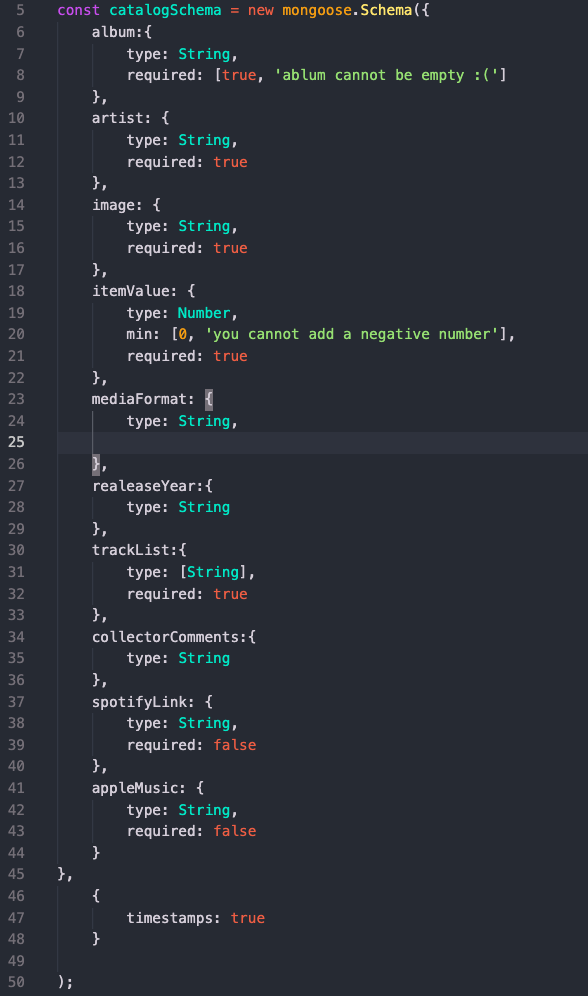
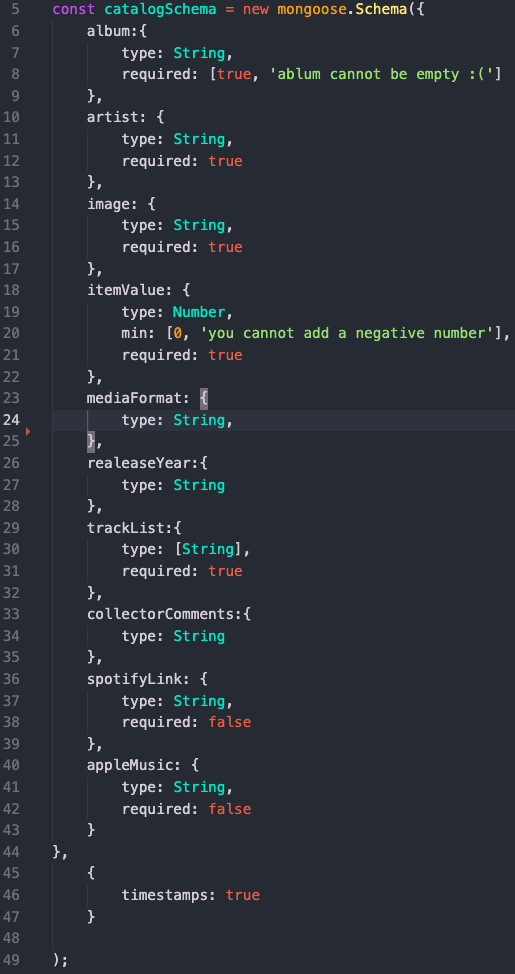
Readme Edit - includes route information

diff --git a/models/Reviews.js b/models/Reviews.js
@@ -17,7 +17,11 @@ const reviewSchema = new mongoose.Schema({
     }
 
 
-}, {timestamps: true});
+}, 
+    {
+        timestamps: true
+    }
+);
 
 const Review = mongoose.model('Review', reviewSchema);
 

diff --git a/models/Catalog.js b/models/Catalog.js
@@ -22,7 +22,6 @@ const catalogSchema = new mongoose.Schema({
     },
     mediaFormat: {
         type: String, 
-
     },
     realeaseYear:{
         type: String

diff --git a/README.md b/README.md
@@ -6,6 +6,15 @@ This site is meant to be used as a cataloging tools for collectors of Vinyl, CDs
 
 In this Project Jacob and I will be building a Full CRUD express application. When buildling out our application we will divide respobsiblities as follows.  Directories and files Justin: Config/db.connections, Controllers, Server.js, and Models/.  Directories and files Jacob: /views including ejs files and partials/ public/styles main.css.  Jacob will take the lead on styling methods based on wireframes with Justin consulting along the way. Justin will setup the github, and mongoDB with sharing permissions. 
 
+* Routes
+
+- '/' - GET - Index - retrieves entire Catalog with artist, ablum, and album image. 
+- '/:id' - GET - Show - retrieves single album with displaying details with Edit and Delete buttons.
+- '/new' - GET - New - displays a form to add new items to the catalog.
+- '/' - POST - Create - renders the new album info to the catalog.
+- '/:id/edit' - PUT - Update - this route will send updated data to the selected album. 
+- '/:id' - DELETE - Delete - deletes an indvidual album and associated data from the Catalog.
+
 # Database Models planning
 
 * Catalog Schema atrributes: 
@@ -17,7 +26,7 @@ In this Project Jacob and I will be building a Full CRUD express application. Wh
 * Review Schema (review will be referenced to Catalog):
 
 
-!["Review"](./Images/ReveiwSchema.PNG)
+!["Review"](./Images/ReviewSchema.PNG)
 
 User will be stretch based on User Authenitcation capability: 
 
@@ -28,6 +37,9 @@ User will be stretch based on User Authenitcation capability:
 
 
 !["ERD"](./Images/ERD_Diagram.PNG)
+
+
+
 # User Story
 
 Our website is going to be a resource for music media collectors to catalog their collections, provide write ups, estimate collection values, and view the collections of others.  Users will be able to create, read, update, and delete items from their collections. They will also be able to comment on individual collections of others.
